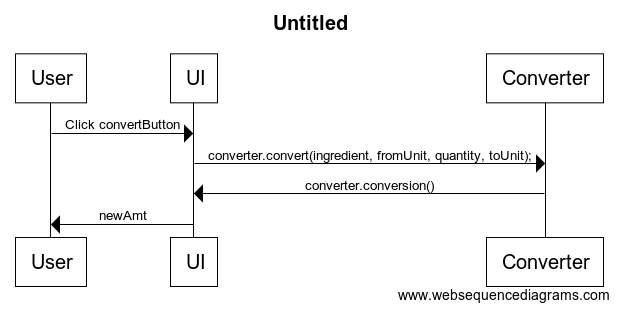
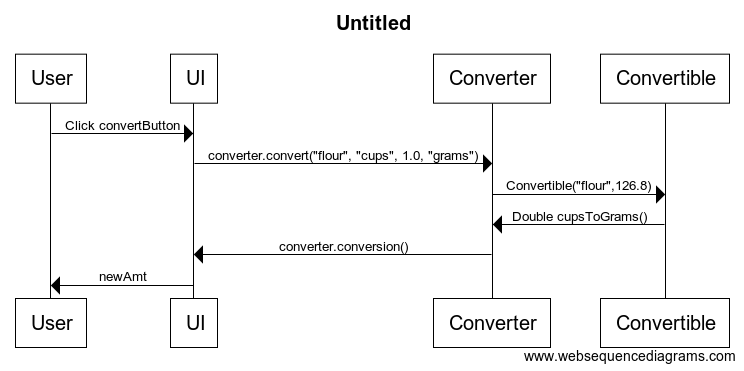
new structure

diff --git a/src/main/java/ingredientconverter/converter/Converter.java b/src/main/java/ingredientconverter/converter/Converter.java
@@ -1,5 +1,9 @@
 package ingredientconverter.converter;
-
+import java.util.*;
+/**
+ * A class that takes the given inputs and performs conversions
+ * based on formulas in the Convertibles.java class.
+ */
 public class Converter {
 
     private Double newAmount;
@@ -7,94 +11,52 @@ public class Converter {
     private String fromUnit;
     private Double amount;
     private String toUnit;
+    private ArrayList<Convertible> convertibles;
 
     public Converter() {
-        newAmount = amount;
-    }
+        this.convertibles = new ArrayList<Convertible>();
+        this.convertibles.add(new Convertible("flour",126.8));
+        this.convertibles.add(new Convertible("sugar",201.0));
+        this.convertibles.add(new Convertible("butter",227.0));
 
+    }
+    /**
+     * The method takes given parameters and performs conversions
+     * based on the formulas in the Convertible.java class.
+     * @param ingredientName Ingredient name given by user.
+     * @param fromUnit Unit to convert from.
+     * @param amount Amount given by user.
+     * @param toUnit Unit to convert into.
+     */
     public void convert(String ingredientName, String fromUnit, Double amount, String toUnit) {
         this.ingredientName = ingredientName;
         this.fromUnit = fromUnit;
         this.amount = amount;
         this.toUnit = toUnit;
-        if (ingredientName.equals("flour")) {
-            convertFlour();
-        } else if (ingredientName.equals("butter")) {
-            convertButter();
-        } else if (ingredientName.equals("sugar")) {
-            convertSugar();
-        } else {
-            newAmount = 0.0;
-        }
-
-    }
-
-    public void convertFlour() {
-        if (fromUnit.equals("grams")) {
-            if (toUnit.equals("millilitres")) {
-                newAmount = amount * 1.8927;
-            } else if (toUnit.equals("cups")) {
-                newAmount = (amount * 1.8927) / 240;
-            }
-        } else if (fromUnit.equals("millilitres")) {
-            if (toUnit.equals("grams")) {
-                newAmount = amount / 1.8927;
-            } else if (toUnit.equals("cups")) {
-                newAmount = amount / 240;
-            }
-        } else if (fromUnit.equals("cups")) {
-            if (toUnit.equals("grams")) {
-                newAmount = (amount / 1.8927) * 240;
-            } else if (toUnit.equals("millilitres")) {
-                newAmount = amount * 240;
-            }
+        newAmount = this.amount;
+        for(int i = 0; i < this.convertibles.size(); i++) {
+            if(this.ingredientName.equals(this.convertibles.get(i).getName())) {
+                if(this.fromUnit.equals("cups") && this.toUnit.equals("grams")) {
+                    newAmount = this.amount * this.convertibles.get(i).cupsToGrams();
+                } else if (this.fromUnit.equals("cups") && this.toUnit.equals("millilitres")) {
+                    newAmount = this.amount * this.convertibles.get(i).cupsToMl();
+                } else if (this.fromUnit.equals("millilitres") && this.toUnit.equals("grams")) {
+                    newAmount = this.amount * this.convertibles.get(i).mlToGrams();
+                } else if (this.fromUnit.equals("millilitres") && this.toUnit.equals("cups")) {
+                    newAmount = this.amount * this.convertibles.get(i).mlToCups();
+                } else if (this.fromUnit.equals("grams") && this.toUnit.equals("millilitres")) {
+                    newAmount = this.amount * this.convertibles.get(i).gramsToMl();
+                } else if (this.fromUnit.equals("grams") && this.toUnit.equals("cups")) {
+                    newAmount = this.amount * this.convertibles.get(i).gramsToCups();
+                }
+            } 
         }
     }
 
-    public void convertButter() {
-        if (fromUnit.equals("grams")) {
-            if (toUnit.equals("millilitres")) {
-                newAmount = amount * 1.057268;
-            } else if (toUnit.equals("cups")) {
-                newAmount = amount / 227;
-            }
-        } else if (fromUnit.equals("millilitres")) {
-            if (toUnit.equals("grams")) {
-                newAmount = amount / 1.057268;
-            } else if (toUnit.equals("cups")) {
-                newAmount = amount / 240;
-            }
-        } else if (fromUnit.equals("cups")) {
-            if (toUnit.equals("grams")) {
-                newAmount = amount * 227;
-            } else if (toUnit.equals("millilitres")) {
-                newAmount = amount * 240;
-            }
-        }
-    }
-
-    public void convertSugar() {
-        if (fromUnit.equals("grams")) {
-            if (toUnit.equals("millilitres")) {
-                newAmount = amount * 1.194029;
-            } else if (toUnit.equals("cups")) {
-                newAmount = amount / 201;
-            }
-        } else if (fromUnit.equals("millilitres")) {
-            if (toUnit.equals("grams")) {
-                newAmount = amount / 1.194029;
-            } else if (toUnit.equals("cups")) {
-                newAmount = amount / 240;
-            }
-        } else if (fromUnit.equals("cups")) {
-            if (toUnit.equals("grams")) {
-                newAmount = amount * 201;
-            } else if (toUnit.equals("millilitres")) {
-                newAmount = amount * 240;
-            }
-        }
-    }
-
+    /**
+     * Rounds up the conversion to a 2 decimal point Double.
+     * @return Returns a 2 decimal point Double, with the amount after conversion.
+     */
     public Double conversion() {
         return Math.round(newAmount * 100.0) / 100.0;
 

diff --git a/src/main/java/ingredientconverter/converter/Convertible.java b/src/main/java/ingredientconverter/converter/Convertible.java
@@ -1,0 +1,49 @@
+package ingredientconverter.converter;
+
+/**
+ * A class that stores conversion formulas and returns them. The amount of grams
+ * in one cup is used to calculate all conversions for any given ingredient.
+ */
+public class Convertible {
+    private String ingredientName;
+    private Double gramsInCup;
+
+    /**
+     * Constructor for convertibles.
+     * 
+     * @param ingredientName Name of the ingredient.
+     * @param gramsInCup     How many grams are in one cup.
+     */
+    public Convertible(String ingredientName, Double gramsInCup) {
+        this.ingredientName = ingredientName;
+        this.gramsInCup = gramsInCup;
+    }
+
+    public Double gramsToCups() {
+        return 1 / this.gramsInCup;
+    }
+
+    public Double gramsToMl() {
+        return 240 / this.gramsInCup;
+    }
+
+    public Double mlToGrams() {
+        return this.gramsInCup / 240;
+    }
+
+    public Double mlToCups() {
+        return 1 / 240.0;
+    }
+
+    public Double cupsToGrams() {
+        return this.gramsInCup;
+    }
+
+    public Double cupsToMl() {
+        return 240.0;
+    }
+
+    public String getName() {
+        return this.ingredientName;
+    }
+}

diff --git a/src/test/java/ingredientconverter/converter/ConverterTest.java b/src/test/java/ingredientconverter/converter/ConverterTest.java
@@ -6,10 +6,7 @@
 package ingredientconverter.converter;
 
 
-import org.junit.After;
-import org.junit.AfterClass;
-import org.junit.Before;
-import org.junit.BeforeClass;
+
 import org.junit.Test;
 import static org.junit.Assert.*;
 
@@ -68,14 +65,6 @@ public class ConverterTest {
         converter.convert("flour","millilitres",240.0,"cups");
         Double result = converter.conversion();
         assertEquals(1.0,result,0.001);
-    }
-
-    @Test
-    public void invalidIngredient(){
-        Converter converter = new Converter();
-        converter.convert("potato","millilitres",240.0,"cups");
-        Double result = converter.conversion();
-        assertEquals(0.0,result,0.001);
     }
 
     @Test

diff --git a/src/main/java/ingredientconverter/main/Main.java b/src/main/java/ingredientconverter/main/Main.java
@@ -1,12 +1,8 @@
 package ingredientconverter.main;
-import java.util.*;
-import ingredientconverter.io.InputHandler;
+
 import ingredientconverter.ui.ConverterUI;
 public class Main {
     public static void main(String[] args) {
-        //Scanner reader = new Scanner(System.in);
-        //InputHandler inputHandler = new InputHandler(reader);
-        //inputHandler.run();
-        ConverterUI.main(args); // comment this line and remove previous comments for text ui.
+        ConverterUI.main(args);
     }
 }
